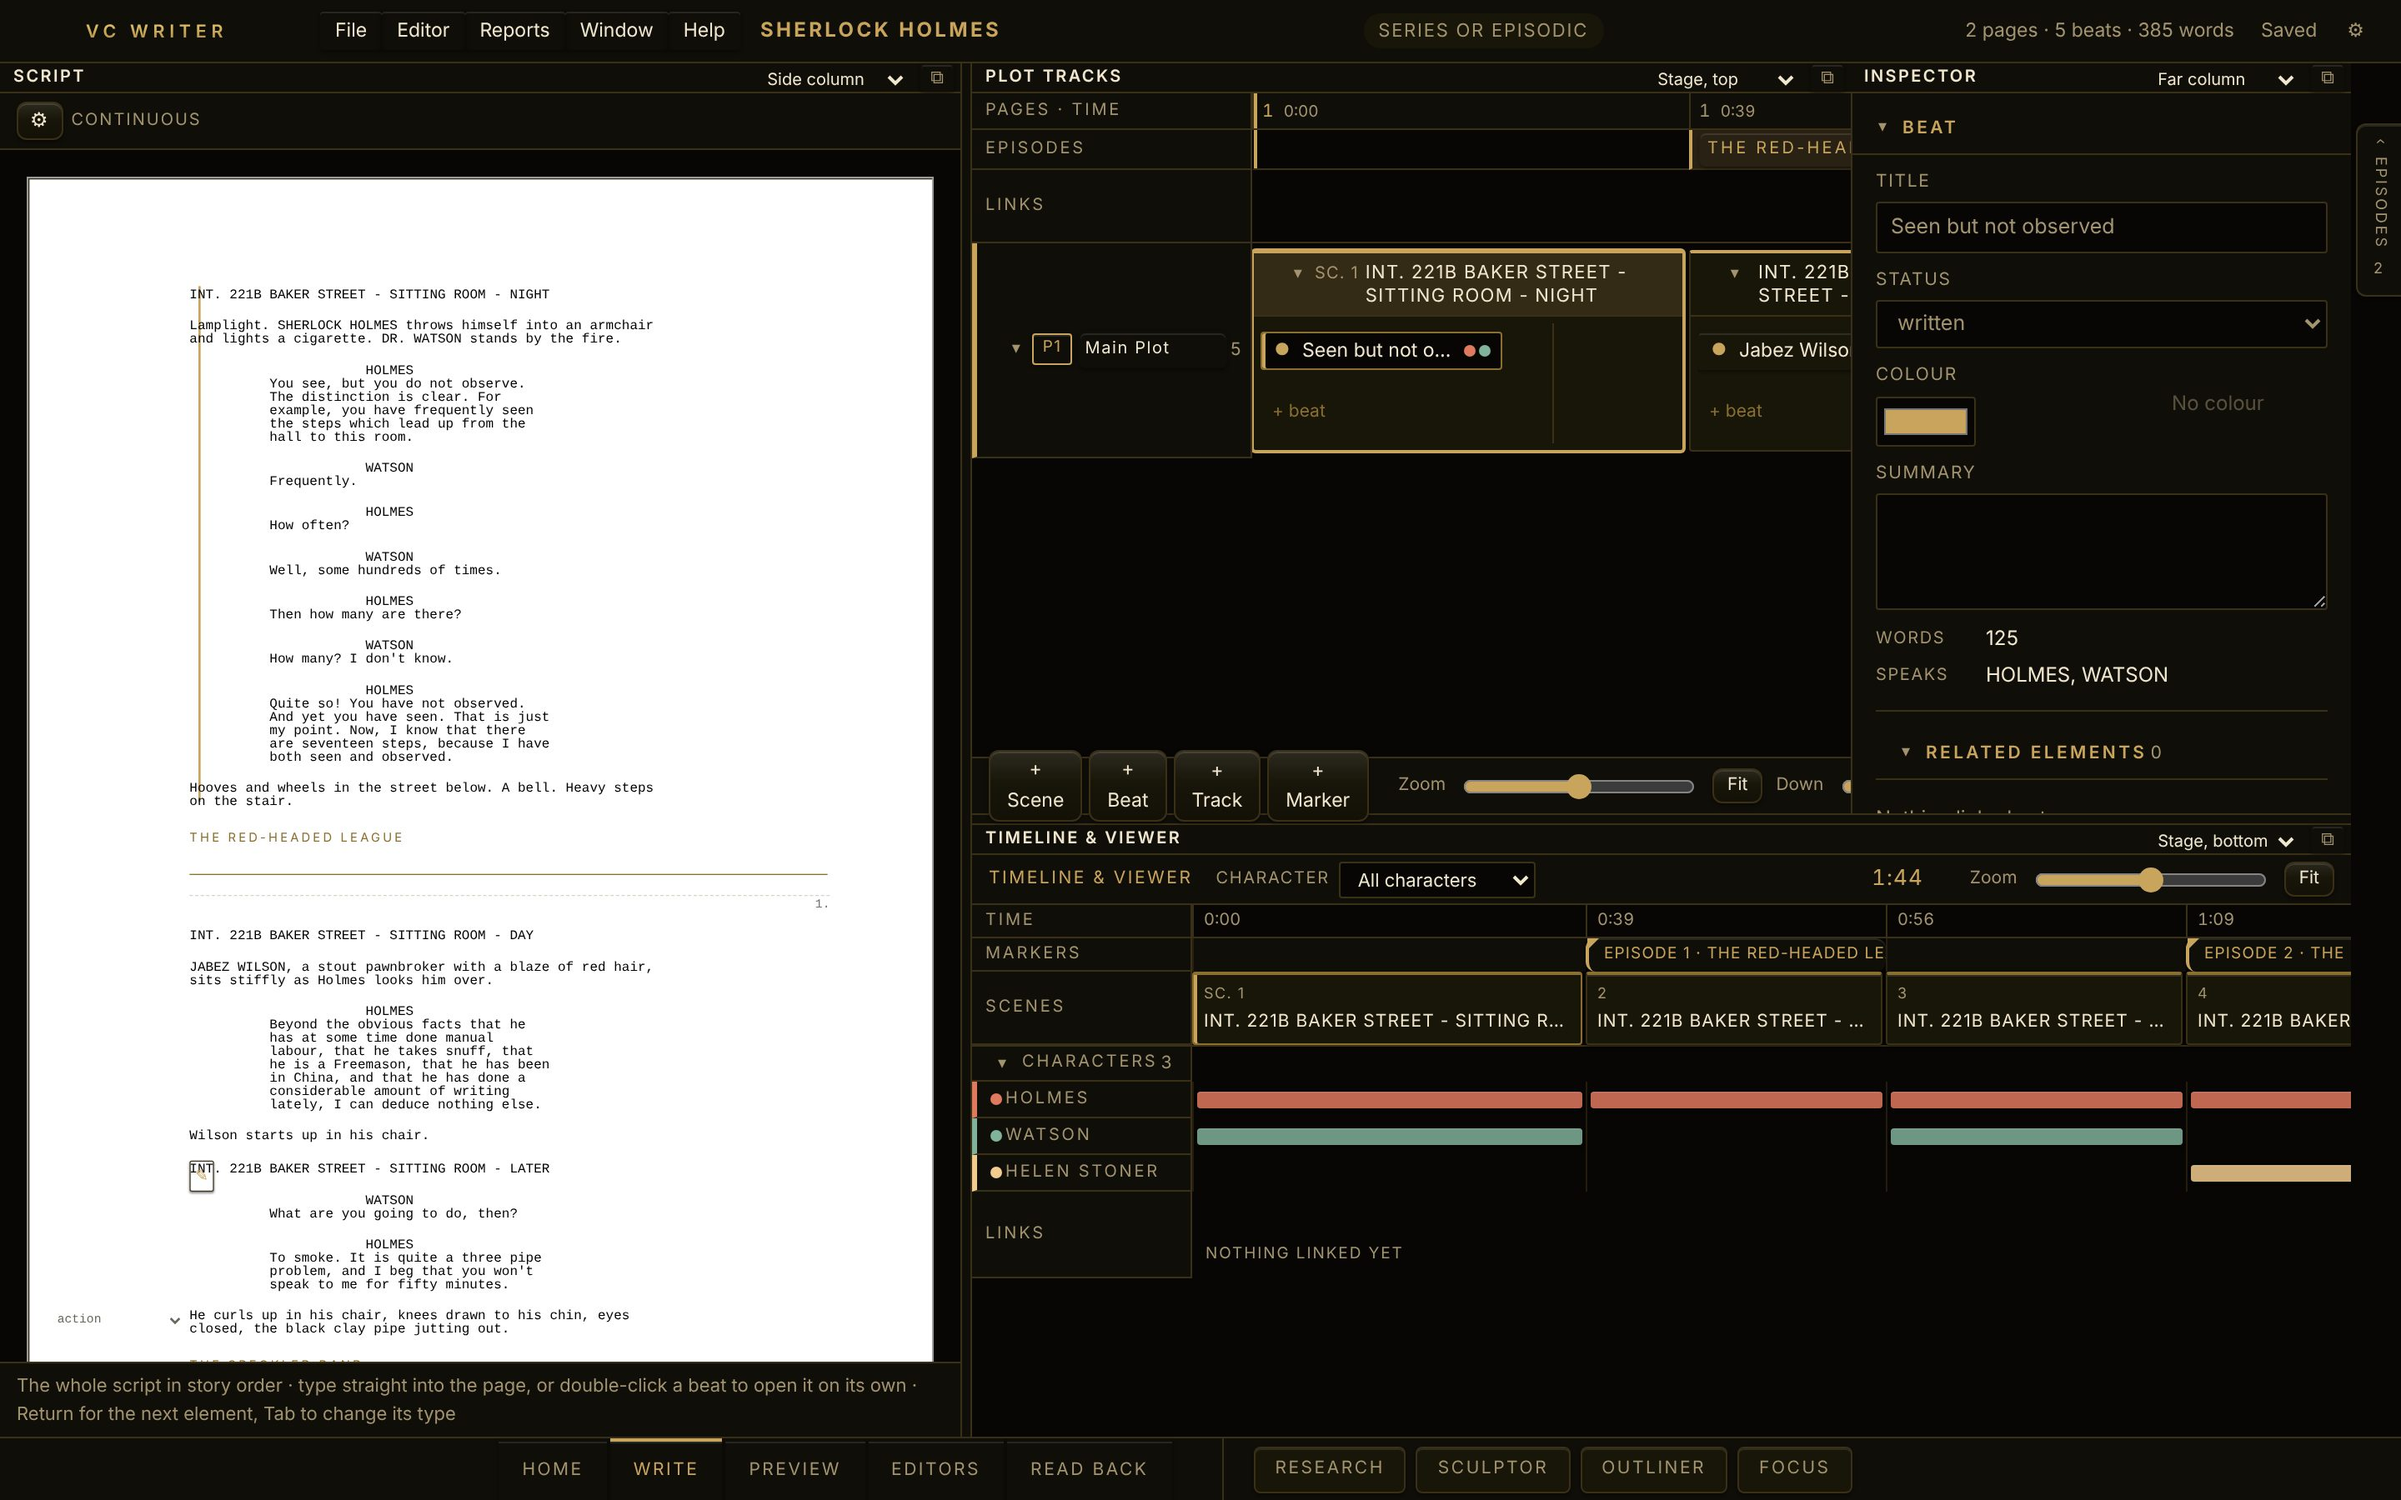
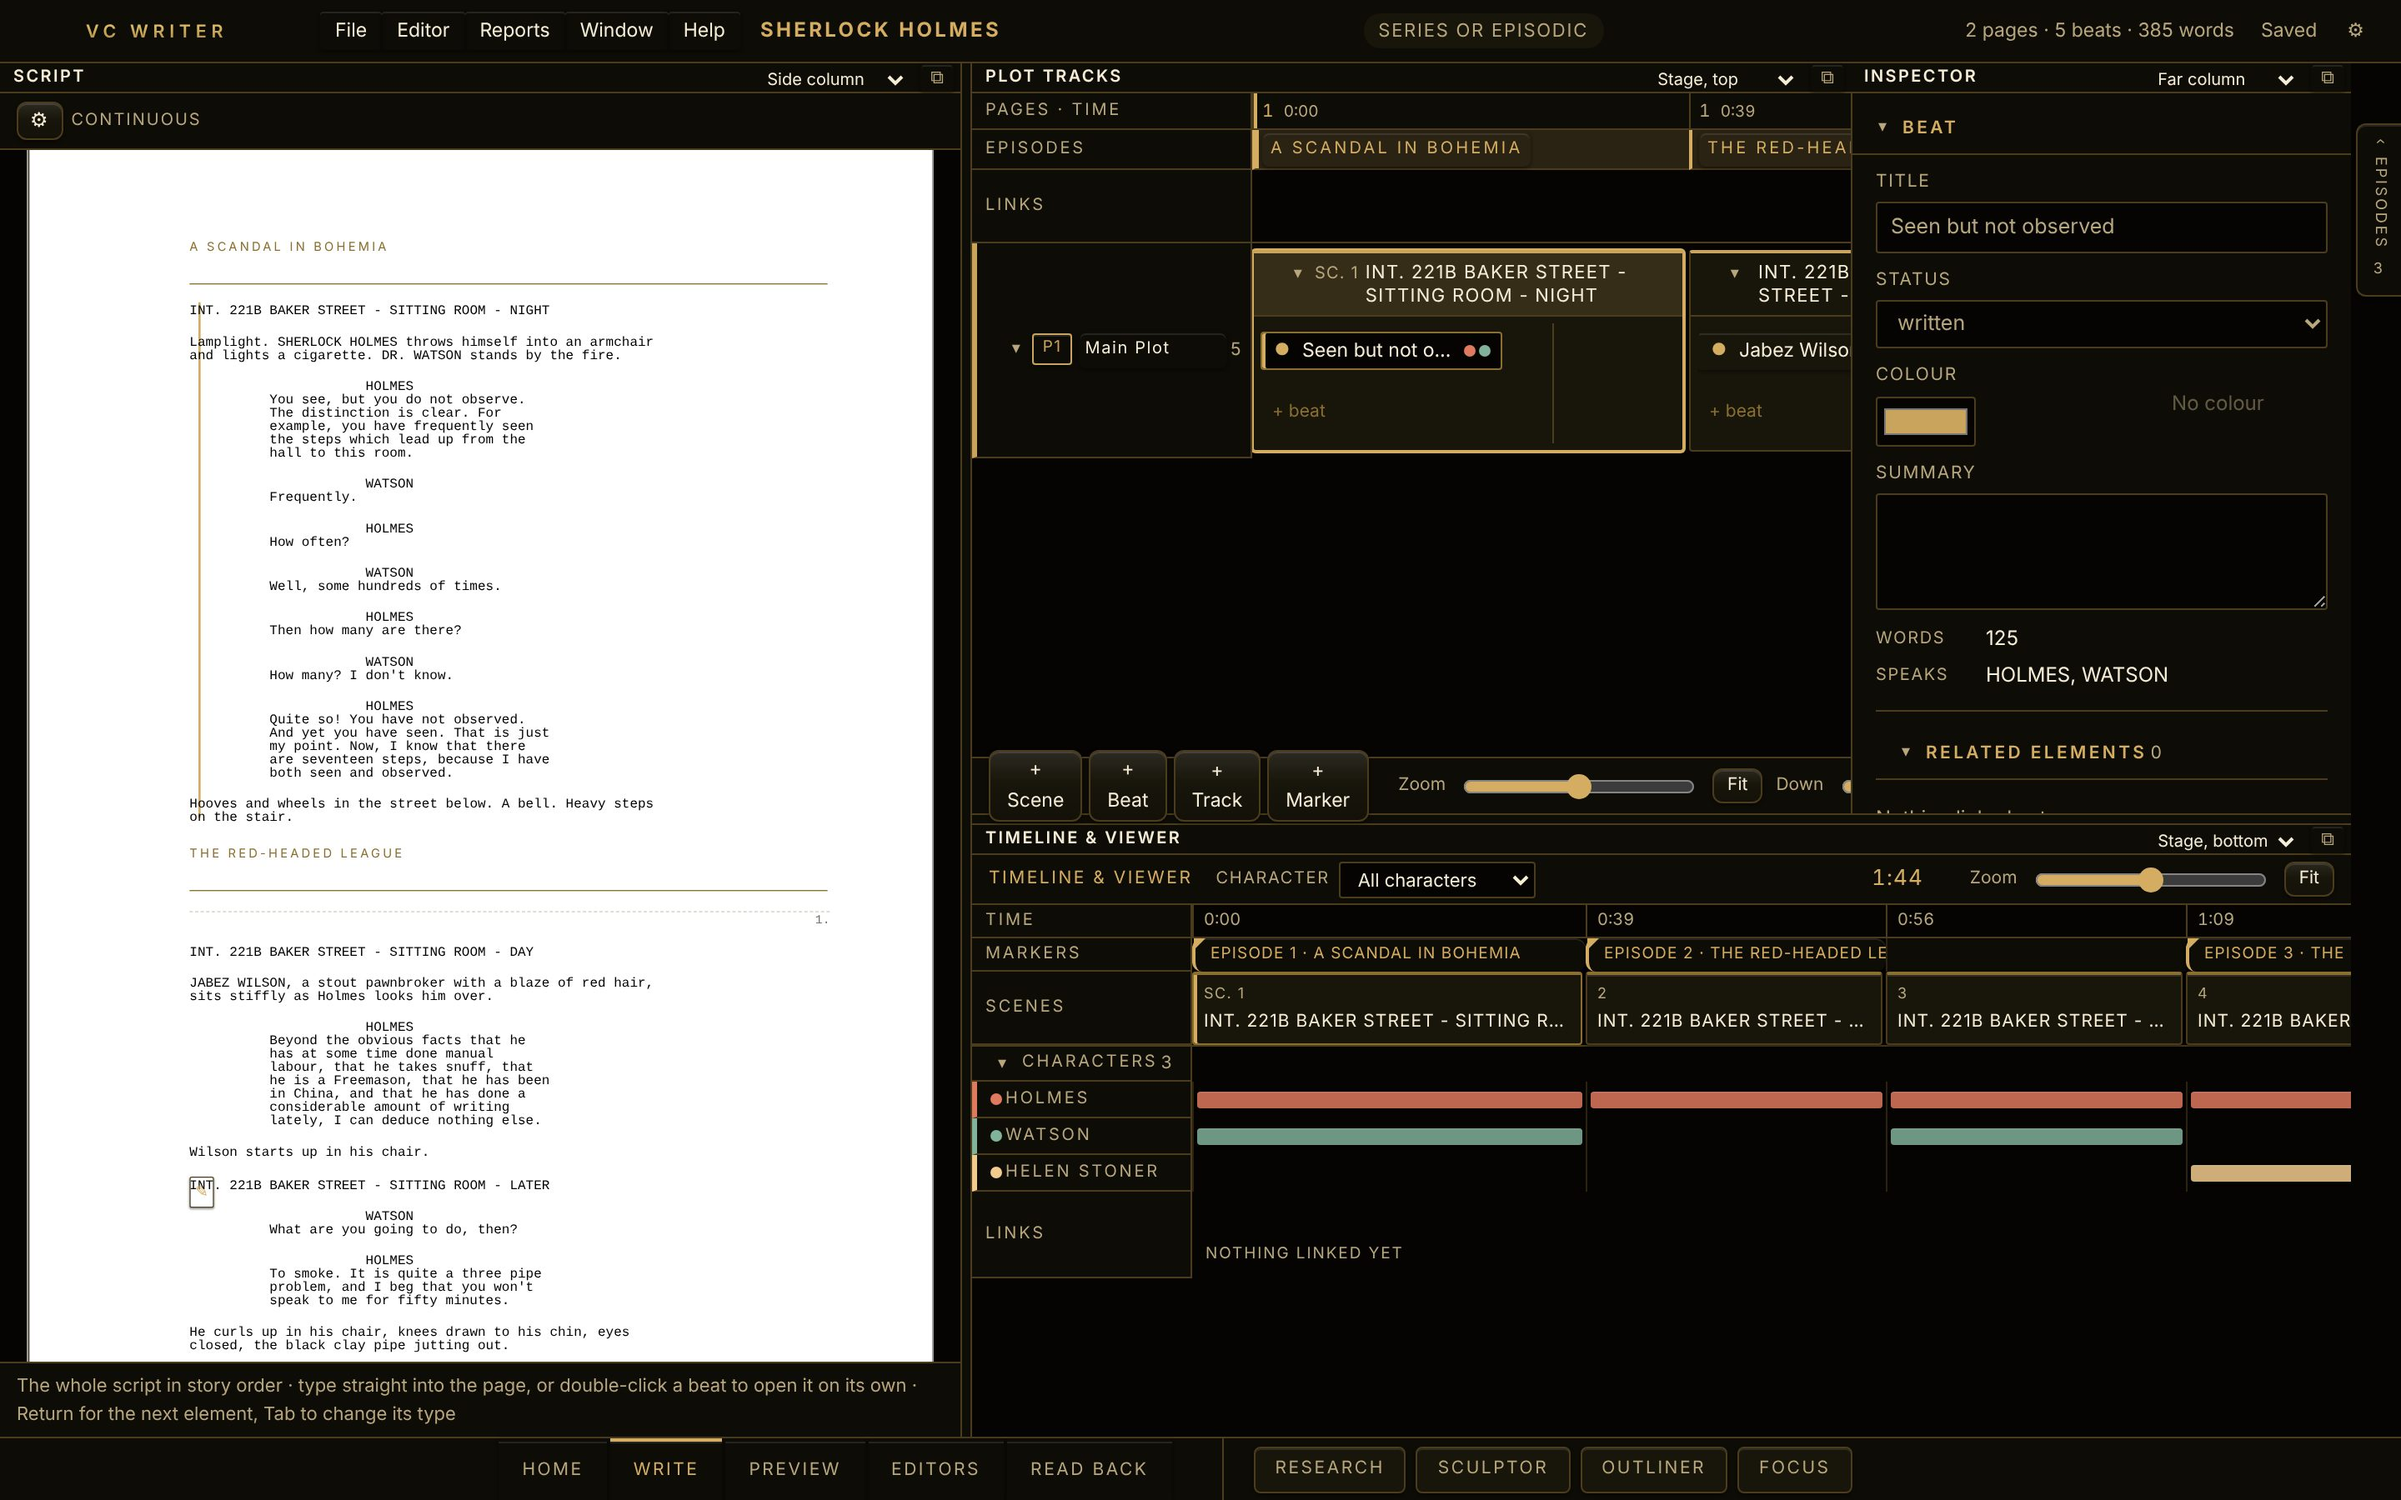
Series demo: the first episode is an episode, so the season lists all three
The demo appended episodes two and three without first marking the opening
script as an episode, so A Scandal in Bohemia had no heading and the
contents page listed two episodes. It now calls ensureFirstEpisode, as the
Import dialog does, and the series shots are retaken.

Claude-Session: https://claude.ai/code/session_01HufyX56kuynopRgv2CJ1Ch

diff --git a/docs/spec/addendum-35-which-module.md b/docs/spec/addendum-35-which-module.md
@@ -651,3 +651,11 @@ projects. A sheet's audio column names its speaker inside the line and never
 has a cue above it. Tested in `editor-daily-short-form.test.ts`, which fails
 on the old code. The demo sheet now reads *Nothing to flag*. That is honest,
 but an empty screen, so the walkthrough still has no editors step.
+
+**The series demo's first episode (14.3, fixed).** The demo built its first
+script through the project builder and appended the other two, without
+`ensureFirstEpisode`. So *A Scandal in Bohemia* had no episode heading, and
+the contents page listed two episodes, numbered from *The Red-Headed
+League*. It now calls `ensureFirstEpisode`, as the Import dialog does. All
+three episodes are listed and marked on the track and the timeline, and the
+series shots are retaken.
